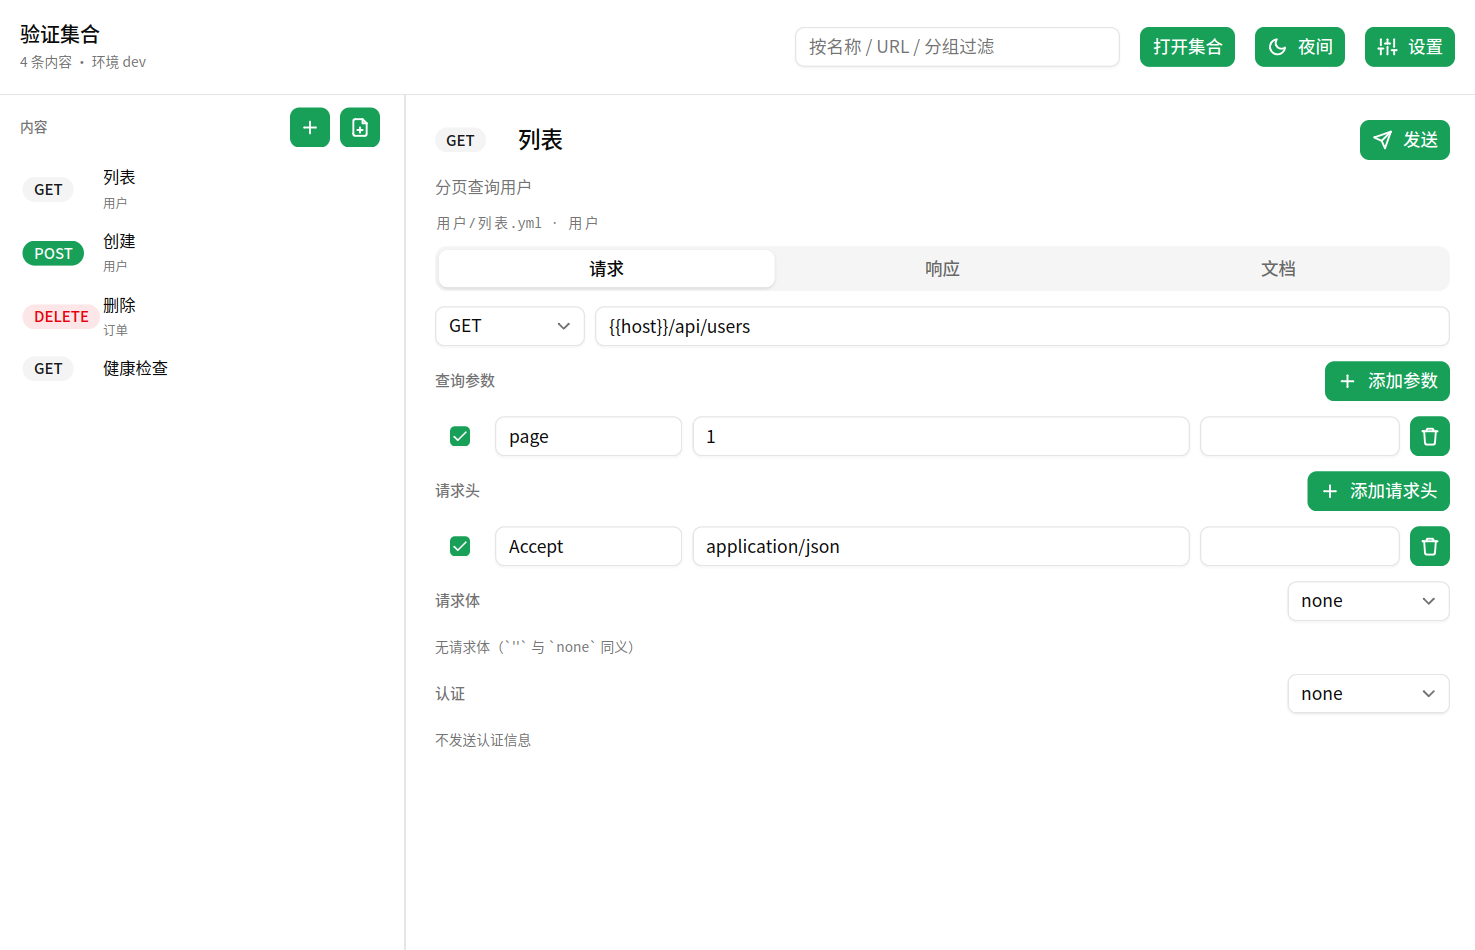
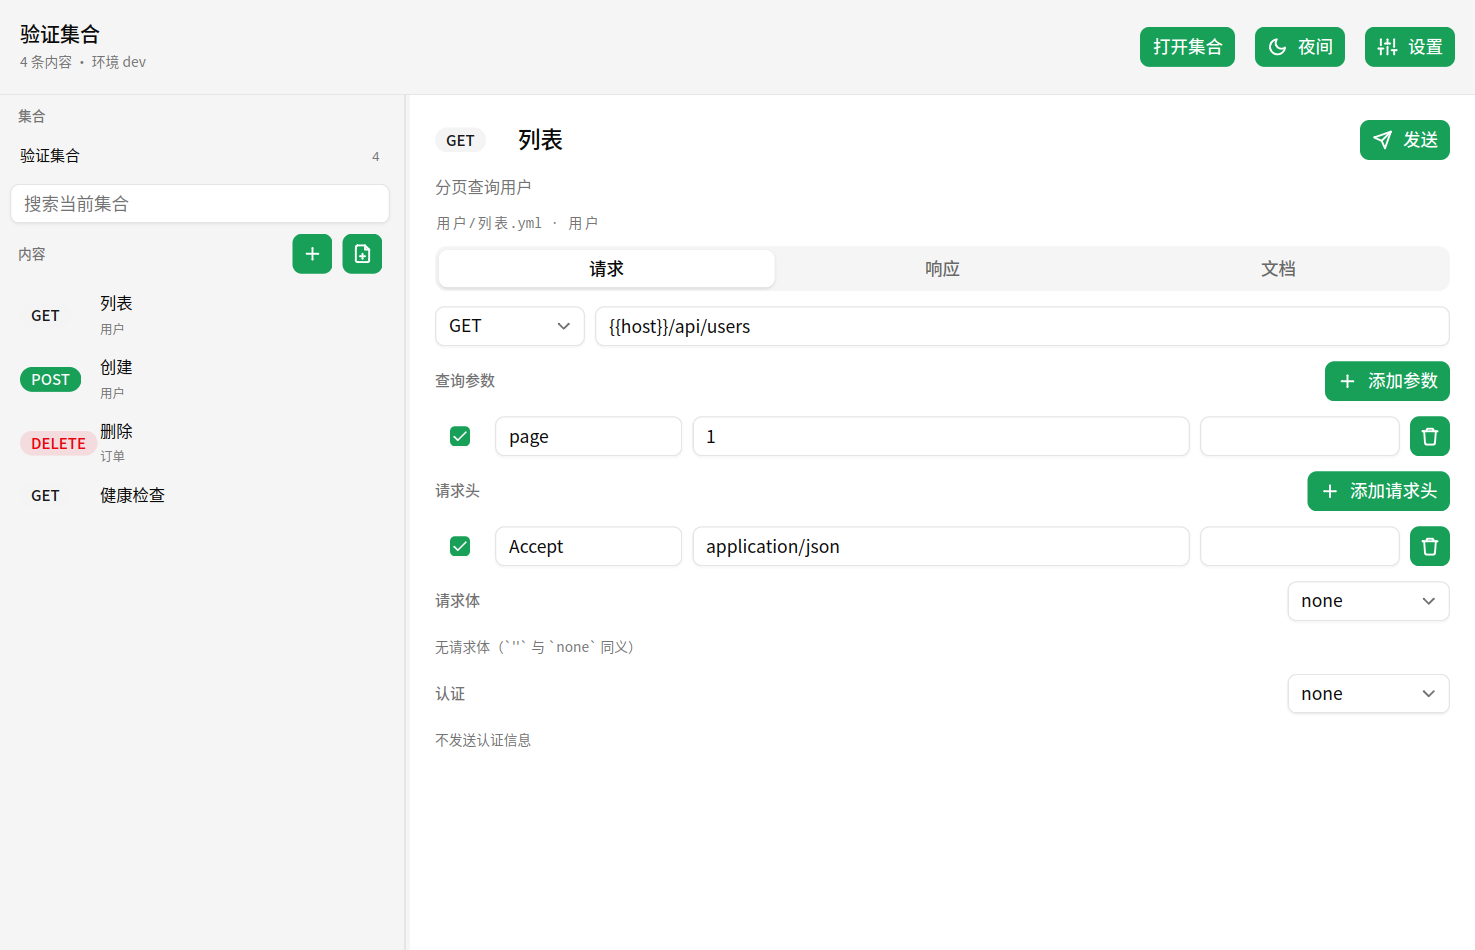
集合树与请求页分层背景；支持多个集合根与树内搜索
- 按 Wails 面板令牌配色：窗口/集合树 #f5f5f5、请求页 #fff（暗色 #17181a / #1e1f22）
- roots 列表同时挂多个集合，各自保留过滤词/环境/选中项，右键关闭（至少留一个）
- 搜索框移到集合树内，过滤当前集合
- 测试覆盖多根切换、状态恢复与关闭边界

diff --git a/internal/view/page.go b/internal/view/page.go
@@ -1,6 +1,8 @@
 package view
 
 import (
+	"strconv"
+
 	"github.com/leihenshang/api-doc-go-viva/internal/explorer"
 	"github.com/vivaui/viva/ui"
 )
@@ -13,11 +15,11 @@ func (m *Model) Page(c ui.C) {
 	m.applyPendingSelect()
 	current := m.current()
 	ui.Row(c).Fill().Children(func() {
-		ui.Column(c).Width(m.split.Pos).FillHeight().Background(c.Theme().Card).Children(func() {
+		ui.Column(c).Width(m.split.Pos).FillHeight().Background(m.pal.sidebar).Children(func() {
 			m.sidebar(c)
 		})
 		ui.Splitter(c, &m.split).Mins(240, 420)
-		ui.Column(c).Grow(1).FillHeight().Children(func() {
+		ui.Column(c).Grow(1).FillHeight().Background(m.pal.panel).Children(func() {
 			m.detail(c, current)
 		})
 	})
@@ -32,7 +34,6 @@ func (m *Model) toolbar(c ui.C) {
 			ui.Text(c, m.subtitle).FontSize(11).Muted()
 		})
 		ui.Spacer(c)
-		ui.TextField(c, &m.filter, "搜索条目", "按名称 / URL / 分组过滤").Width(260)
 		if ui.Button(c, "打开集合").Clicked() {
 			c.After(m.chooseCollection)
 		}
@@ -50,9 +51,12 @@ func (m *Model) toolbar(c ui.C) {
 	ui.Divider(c)
 }
 
-// sidebar 是左侧集合树：新建入口 + 条目列表；空集合与无匹配都走组件目录的空状态。
+// sidebar 是左侧：已打开的集合根、当前集合的搜索、以及条目列表。
 func (m *Model) sidebar(c ui.C) {
-	ui.Column(c).Fill().Pad(10).Gap(8).Children(func() {
+	ui.Column(c).Fill().Pad(8).Gap(8).Children(func() {
+		ui.Text(c, "集合").FontSize(11).Bold().Muted().PadX(6)
+		m.rootsPane(c)
+		ui.TextField(c, &m.filter, "搜索条目", "搜索当前集合").FillWidth()
 		ui.Row(c).FillWidth().PadX(6).Gap(8).Items(ui.Center).Children(func() {
 			ui.Text(c, "内容").FontSize(11).Bold().Muted()
 			ui.Spacer(c)
@@ -68,13 +72,45 @@ func (m *Model) sidebar(c ui.C) {
 		}
 		switch {
 		case len(m.col.Entries) == 0:
-			emptyBox(c, "集合里没有条目", "点「新建文档」或在桌面客户端里新建请求")
+			emptyBox(c, "集合里没有条目", "点「新建请求 / 新建文档」或在桌面客户端里新建")
 		case len(m.shown) == 0:
 			emptyBox(c, "没有匹配的条目", "换个关键字，或清空搜索框")
 		default:
 			ui.List(c, &m.list, len(m.shown), m.row).Label("条目列表").Grow(1)
 		}
 	})
+}
+
+// rootsPane 列出已打开的集合根：点一行切过去，右键可以关掉（至少留一个）。
+func (m *Model) rootsPane(c ui.C) {
+	theme := c.Theme()
+	for index, root := range m.roots {
+		slot := index
+		row := ui.Row(c).FillWidth().PadX(8).PadY(5).Gap(6).Items(ui.Center).
+			Radius(theme.Metrics.RadiusControl).
+			Hover(ui.Look{}.Background(theme.Hover)).
+			Hit(ui.ID(c), "集合 "+root.col.Name)
+		if index == m.active {
+			row.Background(theme.Accent)
+		}
+		row.Children(func() {
+			ui.Text(c, root.col.Name).FontSize(12).Ellipsis()
+			ui.Spacer(c)
+			ui.Text(c, strconv.Itoa(len(root.col.Entries))).FontSize(10).Muted().Mono()
+		})
+		ui.ContextMenu(c, row, func(menu *ui.MenuItems) {
+			item := menu.Item("关闭集合")
+			if len(m.roots) <= 1 {
+				item.Disabled(true)
+			}
+			if item.Clicked() {
+				c.After(func() { m.closeRoot(slot) })
+			}
+		})
+		if row.Clicked() {
+			c.After(func() { m.activateRoot(slot) })
+		}
+	}
 }
 
 // row 是一行：类型徽标（组件目录 Badge）+ 名称 + 分组。

diff --git a/internal/view/actions.go b/internal/view/actions.go
@@ -54,6 +54,7 @@ func (m *Model) applyTheme() {
 	}
 	m.theme.PrimaryForeground = accentText
 	m.theme.Ring = m.theme.Primary
+	m.pal = paletteFor(m.settings.Theme == settings.ThemeLight)
 	m.docs.look = components.MarkdownLookFor(m.theme)
 }
 
@@ -231,11 +232,20 @@ func (m *Model) confirmInit() {
 	m.openCollection(dir)
 }
 
-// adoptCollection 切换到一个新集合：清空所有按旧集合派生的状态，记住上次打开的目录。
-func (m *Model) adoptCollection(col *explorer.Collection) {
-	m.col = col
-	m.filter = ""
-	m.shownOnce = false
+// syncRoot 把当前界面状态存回活动根（切走前调用，切换回来能接着用）。
+func (m *Model) syncRoot() {
+	if m.active < 0 || m.active >= len(m.roots) {
+		return
+	}
+	root := m.roots[m.active]
+	root.col = m.col
+	root.env = m.envName
+	root.filter = m.filter
+	root.file = m.entryFile
+}
+
+// resetCollectionState 清空所有按「当前集合 / 当前条目」派生的状态。
+func (m *Model) resetCollectionState() {
 	m.entryFile = ""
 	m.pendingSelect = ""
 	m.tab = tabRequest
@@ -247,21 +257,73 @@ func (m *Model) adoptCollection(col *explorer.Collection) {
 	m.sending = false
 	m.gen++
 	m.createErr = ""
+	m.shownOnce = false
+}
 
-	m.envName = m.settings.Envs[col.Dir]
+// installRoot 装上一个根：集合、过滤词、环境、选中项都来自它自己的状态。
+func (m *Model) installRoot(root *rootState) {
+	m.col = root.col
+	m.filter = root.filter
+	m.envName = root.env
 	m.vars = map[string]string{}
 	if m.envName != "" {
-		if vars, err := explorer.LoadEnv(col.Dir, m.envName); err == nil {
+		if vars, err := explorer.LoadEnv(m.col.Dir, m.envName); err == nil {
 			m.vars = vars
 		}
 	}
-	m.settings.LastCollection = col.Dir
+	m.resetCollectionState()
+	m.pendingSelect = root.file
+	m.settings.LastCollection = m.col.Dir
 	_ = settings.Save(m.settings)
 	m.refreshEnvs()
 	m.ui.envPick = m.envName
 	m.ui.envErr = ""
 	m.refreshShown()
 	m.invalidator.Invalidate()
+}
+
+// activateRoot 切到第 i 个集合；先存旧的过滤 / 环境 / 选中，再装新的。
+func (m *Model) activateRoot(i int) {
+	if i < 0 || i >= len(m.roots) || i == m.active {
+		return
+	}
+	m.syncRoot()
+	m.active = i
+	m.installRoot(m.roots[i])
+}
+
+// closeRoot 关掉第 i 个集合（至少留一个）；关的是活动的就切到邻位。
+func (m *Model) closeRoot(i int) {
+	if i < 0 || i >= len(m.roots) || len(m.roots) <= 1 {
+		return
+	}
+	closingActive := m.active == i
+	m.roots = append(m.roots[:i], m.roots[i+1:]...)
+	switch {
+	case closingActive:
+		if i >= len(m.roots) {
+			i = len(m.roots) - 1
+		}
+		m.active = i
+		m.installRoot(m.roots[i])
+	case m.active > i:
+		m.active--
+	}
+	m.invalidator.Invalidate()
+}
+
+// adoptCollection 打开一个集合：已打开过就切过去，否则追加成一个新的根。
+func (m *Model) adoptCollection(col *explorer.Collection) {
+	for i, root := range m.roots {
+		if root.col.Dir == col.Dir {
+			m.activateRoot(i)
+			return
+		}
+	}
+	m.syncRoot()
+	m.roots = append(m.roots, &rootState{col: col, env: m.settings.Envs[col.Dir]})
+	m.active = len(m.roots) - 1
+	m.installRoot(m.roots[m.active])
 }
 
 // renameEnv 重命名当前环境（两个文件一起改），随后切到新名字。

diff --git a/internal/view/model.go b/internal/view/model.go
@@ -107,6 +107,40 @@ type requestTables struct {
 	fields       ui.TableRows
 }
 
+// palette 是 Wails 客户端的面板色令牌：浅色 sidebar #f5f5f5 / panel #ffffff，
+// 暗色 #17181a / #1e1f22，让集合树与请求页有明确的层次，而不是同一块白底。
+type palette struct {
+	bg      ui.Color
+	sidebar ui.Color
+	panel   ui.Color
+	border  ui.Color
+}
+
+func paletteFor(light bool) palette {
+	if light {
+		return palette{
+			bg:      ui.RGB(0xf5, 0xf5, 0xf5),
+			sidebar: ui.RGB(0xf5, 0xf5, 0xf5),
+			panel:   ui.RGB(0xff, 0xff, 0xff),
+			border:  ui.RGB(0xe3, 0xe3, 0xe3),
+		}
+	}
+	return palette{
+		bg:      ui.RGB(0x17, 0x18, 0x1a),
+		sidebar: ui.RGB(0x17, 0x18, 0x1a),
+		panel:   ui.RGB(0x1e, 0x1f, 0x22),
+		border:  ui.RGB(0x2b, 0x2d, 0x31),
+	}
+}
+
+// rootState 是一个已打开的集合根，以及它自己的过滤词、环境与选中项。
+type rootState struct {
+	col    *explorer.Collection
+	env    string
+	filter string
+	file   string
+}
+
 // kvRow 是一行可编辑的键值（查询参数 / 请求头 / 环境变量）：指针存进切片，
 // 文本输入绑定 &row.name 时指针稳定，删行/加行不会重置其它行的编辑器状态。
 type kvRow struct {
@@ -190,11 +224,16 @@ type workspaceUI struct {
 
 // Model 一次运行的界面状态。
 type Model struct {
-	col     *explorer.Collection
+	// 多个集合根：roots 按打开顺序排，col 始终是 active 指向的那个（界面只读 col）。
+	roots  []*rootState
+	active int
+	col    *explorer.Collection
+
 	envName string
 	vars    map[string]string
 
 	theme ui.Theme
+	pal   palette
 	split ui.SplitterState
 	list  ui.ListState
 	tab   detailTab
@@ -250,6 +289,9 @@ func New(col *explorer.Collection, envName string, vars map[string]string) *Mode
 		drafts:   map[string]string{},
 		settings: settings.Load(),
 	}
+	m.roots = []*rootState{{col: col}}
+	m.active = 0
+	m.col = col
 	m.ui.newMethod = "GET"
 	m.ui.newEnvName = "dev"
 	// 没显式指定环境时沿用该集合上次的选择（偏好按集合根记）。
@@ -272,7 +314,7 @@ func New(col *explorer.Collection, envName string, vars map[string]string) *Mode
 
 // config 是窗口与页面的接线：Run 与无头测试共用，免得两处配置漂移。
 func (m *Model) config() app.Config {
-	page := ui.NewPage(ui.PageConfig{View: m.Page, Theme: &m.theme})
+	page := ui.NewPage(ui.PageConfig{View: m.Page, Theme: &m.theme, Background: &m.pal.bg})
 	return page.Config(app.Config{
 		Title:       "API-DOC · Viva 验证版",
 		Class:       "api-doc-viva",

diff --git a/internal/view/workspace_test.go b/internal/view/workspace_test.go
@@ -122,3 +122,52 @@ func TestEnvRenameAndDelete(t *testing.T) {
 		t.Fatalf("环境文件应移进 .trash：%v %v", entries, err)
 	}
 }
+
+// TestMultipleCollectionsKeepTheirOwnState 多个集合根各自保留过滤词与选中项，可来回切。
+func TestMultipleCollectionsKeepTheirOwnState(t *testing.T) {
+	first := makeCollection(t, "甲", "旧接口")
+	second := makeCollection(t, "乙", "新接口")
+	col, err := explorer.Load(first)
+	if err != nil {
+		t.Fatalf("Load: %v", err)
+	}
+	model := New(col, "", nil)
+	driver := openWindow(t, model)
+
+	// 在第一个集合里搜索，然后打开第二个集合。
+	model.filter = "旧"
+	model.invalidator.Invalidate()
+	pump(t, driver)
+	model.openCollection(second)
+	pump(t, driver)
+	if len(model.roots) != 2 {
+		t.Fatalf("应有两个集合根：%d", len(model.roots))
+	}
+	if !hasControl(driver, "集合 甲") || !hasControl(driver, "集合 乙") {
+		t.Fatalf("集合列表应同时出现两个根：%v", painted(driver))
+	}
+	if !hasControl(driver, "GET 新接口") {
+		t.Fatalf("第二个集合的条目没显示：%v", painted(driver))
+	}
+
+	// 切回第一个：过滤词要恢复，列表只剩匹配项。
+	model.activateRoot(0)
+	pump(t, driver)
+	if model.filter != "旧" {
+		t.Fatalf("切回来过滤词丢了：%q", model.filter)
+	}
+	if !hasControl(driver, "GET 旧接口") || hasControl(driver, "GET 新接口") {
+		t.Fatalf("切回后树内容不对：%v", painted(driver))
+	}
+
+	// 关掉当前集合：落到剩下的那个；最后一个不能关。
+	model.closeRoot(0)
+	pump(t, driver)
+	if len(model.roots) != 1 || model.col.Dir != second {
+		t.Fatalf("关闭后应只剩第二个集合：%d %q", len(model.roots), model.col.Dir)
+	}
+	model.closeRoot(0)
+	if len(model.roots) != 1 {
+		t.Fatal("最后一个集合不应被关闭")
+	}
+}
